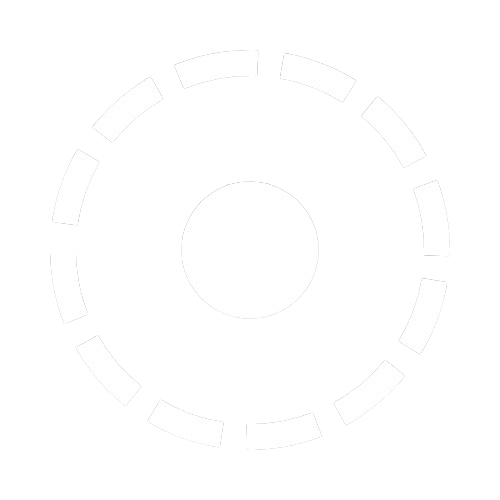
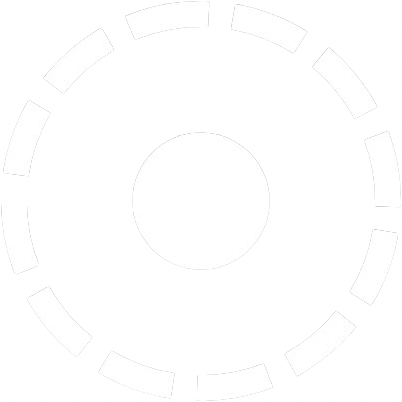
Landing page v0.5

diff --git a/style.css b/style.css
@@ -7,11 +7,56 @@
     }
 }
 
+@keyframes growAndFade {
+    0% {
+      transform: scale(0.7);
+      opacity: 1;
+    }
+    95% {
+      transform: scale(3.7);
+      opacity: 0;
+      border: 0.8px solid #FFF;
+    }
+    100% {
+      transform: scale(0.5);
+      opacity: 0;
+    }
+  }
+
+@keyframes growButton {
+    0% {
+      transform: scale(1);
+    }
+    5% {
+      transform: scale(0.8);
+    }
+    10% {
+      transform: scale(1.1);
+    }
+    15% {
+      transform: scale(1);
+    }
+    100% {
+      transform: scale(1);
+    }
+  }
+
+  @keyframes bulletLink{
+    0% {
+        opacity: 0;
+    }
+    30% {
+        opacity: 0;
+    }
+    100% {
+        opacity: 1;
+    }
+}
+
 * {
     padding: 0;
     margin: 0;
     box-sizing: border-box;
-    overflow: hidden !important;
 }
 
 body {
@@ -19,7 +64,7 @@ body {
     padding: 0;
     font-family: 'Montserrat', sans-serif;
     background-color: #4c290c;
-    overflow: hidden!important;
+    overflow: hidden;
 }
 
 /* -------------------------------------------------- */
@@ -111,21 +156,46 @@ button {
     width: 20px;
     height: 20px;
     z-index: 999;
-    /*transition: all 0.1s;*/
+    animation: growButton 5s infinite;
 }
 
+.drop-anim{
+    position: absolute;
+    overflow: visible;
+}
+
+.drop-anim::before {
+    content: '';
+    display: block;
+    position: absolute;
+    width: 20px;
+    height: 20px;
+    border-radius: 50%;
+    border: 1px solid #FFF;
+    background-color: transparent; /* Remplacez par la couleur de votre choix */
+    animation: growAndFade 5s infinite;
+  }
+
 .background-image .bullet-button:hover{
+    animation: hidden;
     cursor: pointer;
     transform: scale(1.1);
 }
 
-/* .background-image .bullet-button.active{
+.background-image .bullet-button.active{
+    animation: hidden;
     transform: scale(1.1);
-} */
+}
 
 .bullet-button img{
     width: 100%;
 }
+
+.bullet-button img{
+    width: 100%;
+}
+
+
 
 /* --------------------------------------------------- */
 
@@ -148,6 +218,7 @@ button {
 
 .bullet-link.active{
     visibility: visible;
+    animation: bulletLink 1s ease-in;
     opacity: 1;
 }
 
@@ -197,8 +268,4 @@ button {
     #scroll-right {
         margin-right: 15px;
     }
-}
-
-.leader-line {
-    overflow: hidden!important;
 }

diff --git a/script.js b/script.js
@@ -20,7 +20,7 @@ let topOverflow;
 let maxX;
 
 const freakeyLine = new LeaderLine(
-    document.getElementById('freakey-button'),
+    LeaderLine.pointAnchor(document.getElementById('freakey-button'), { x: '75%', y: '100%' }),
     LeaderLine.pointAnchor(document.getElementById('freakey-link'), { x: '50%', y: 0 }),
     {
         element: backgroundImage,
@@ -35,8 +35,8 @@ const freakeyLine = new LeaderLine(
 );
 
 const illegoLine = new LeaderLine(
-    document.getElementById('illego-button'),
-    LeaderLine.pointAnchor(document.getElementById('illego-link'), { x: '50%', y: 0 }),
+    LeaderLine.pointAnchor(document.getElementById('illego-button'), { x: '75%', y: '25%' }),
+    LeaderLine.pointAnchor(document.getElementById('illego-link'), { x: 0, y: '50%' }),
     {
         element: backgroundImage,
         color: 'white',
@@ -104,6 +104,7 @@ function stopScrolling() {
     scrollLeftButton.classList.remove('pushed');
     scrollRightButton.classList.remove('pushed');
 }
+
 // --------------------------------------------------------
 
 function updateOverflowValues() {
@@ -271,10 +272,12 @@ $(document).ready(function() {
 
             console.log(targetID);
             if (targetID.includes("freakey")) {
-                freakeyLine.show();
+                freakeyLine.show("draw", {duration: 500, timing: 'linear'});
+                illegoLine.hide();
                 console.log(1);
             } else if (targetID.includes("illego")) {
-                illegoLine.show();
+                illegoLine.show("draw", {duration: 500, timing: 'linear'});
+                freakeyLine.hide();
                 console.log(2);
             }
 

diff --git a/index.html b/index.html
@@ -13,11 +13,15 @@
 </head>
 <body>
 <div class="background-image">
+
+    
     <button id="freakey-button" class="bullet-button background-element" data-coord='{"x": 1896,"y": 563}' target="freakey-link"><img src="./img/bullet-plain.png" alt="Puce"></button>
-    <a href="#" id="freakey-link" class="bullet-link background-element" data-coord='{"x": 2100,"y": 900}'>FREAKEY!</a>
+    <a href="https://www.instagram.com/1freakey" target="_blank" id="freakey-link" class="bullet-link background-element" data-coord='{"x": 2100,"y": 900}'>FREAKEY!</a>
+    <div class="drop-anim background-element" data-coord='{"x": 1894,"y": 566}'></div>
 
     <button id="illego-button" class="bullet-button background-element" data-coord='{"x": 644, "y": 1066}' target="illego-link"><img src="./img/bullet-plain.png" alt="Puce"></button>
-    <a href="#" id="illego-link" class="bullet-link background-element" data-coord='{"x": 1100,"y": 800}'>ILLEGO</a>
+    <a href="https://www.instagram.com/il_lego_" target="_blank" id="illego-link" class="bullet-link background-element" data-coord='{"x": 1100,"y": 800}'>ILLEGO</a>
+    <div class="drop-anim background-element" data-coord='{"x": 641, "y": 1068}'></div>
 
     <a id="shop-button" href="https://illego-store.myshopify.com/products/avant-garde-vol1-illego-pack">SHOP</a>
 </div>
